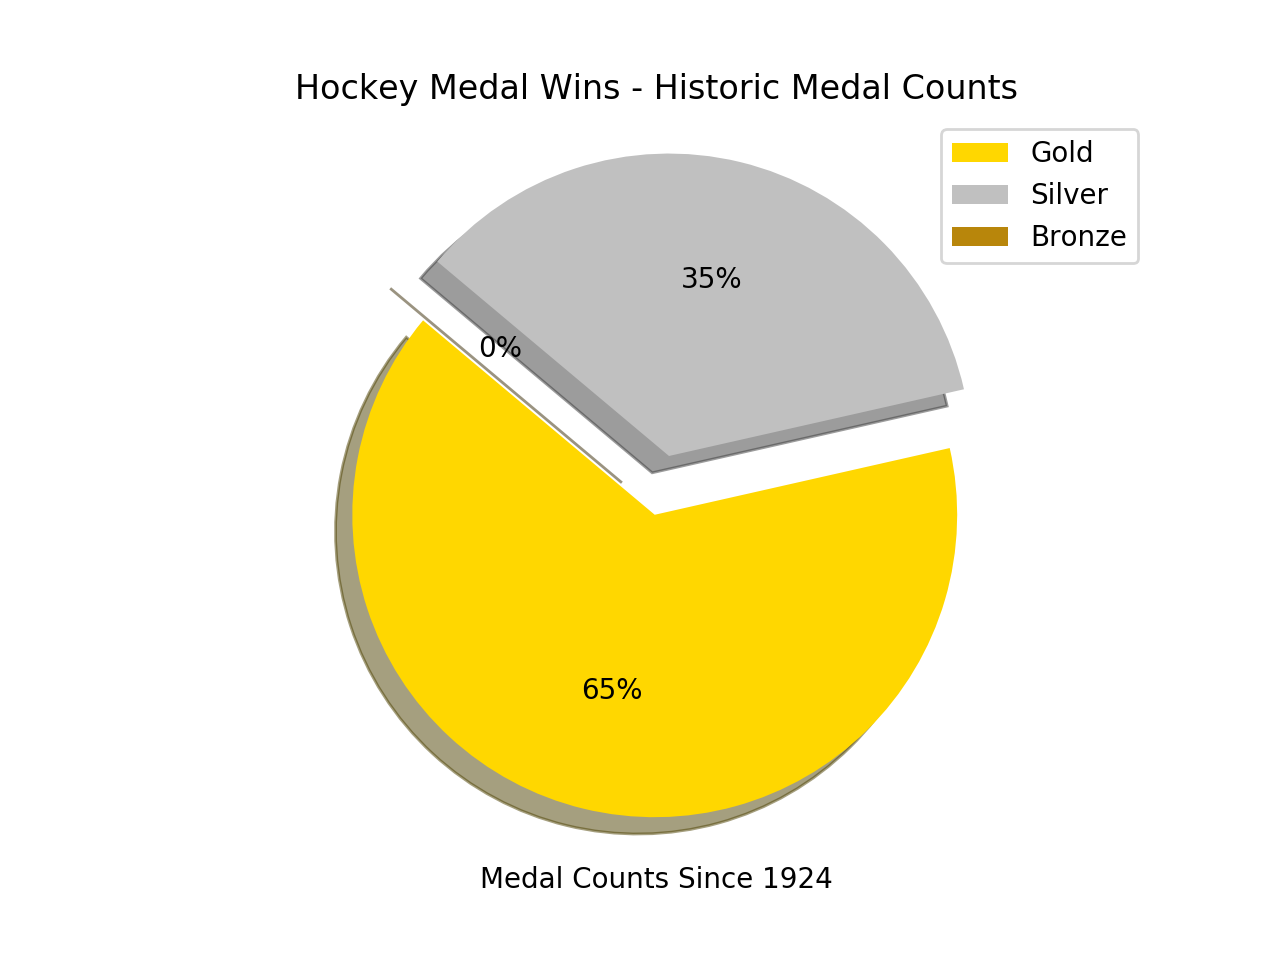
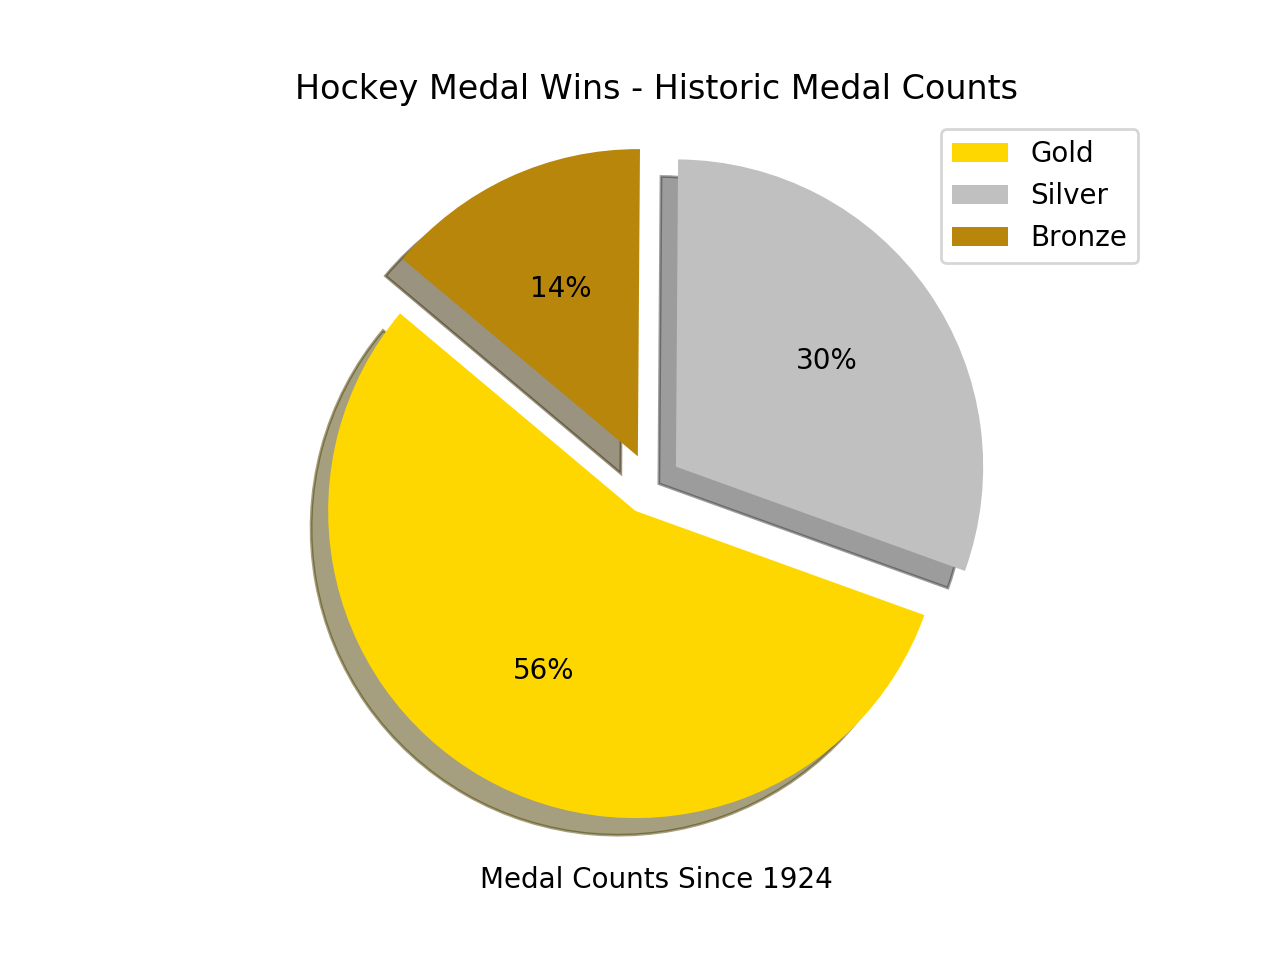
fixed medal piechart

diff --git a/data/OlympicHockeyMedals.py b/data/OlympicHockeyMedals.py
@@ -24,7 +24,7 @@ with open('data/mensmedals.csv') as csvfile:
 			elif row[7] == "Silver":
 				print("won a silver medal")
 				silvers.append(row[7])
-			elif row[7] == "bronze":
+			else: 
 				print("won a blonze medal")
 				bronzes.append(row[7])
 
